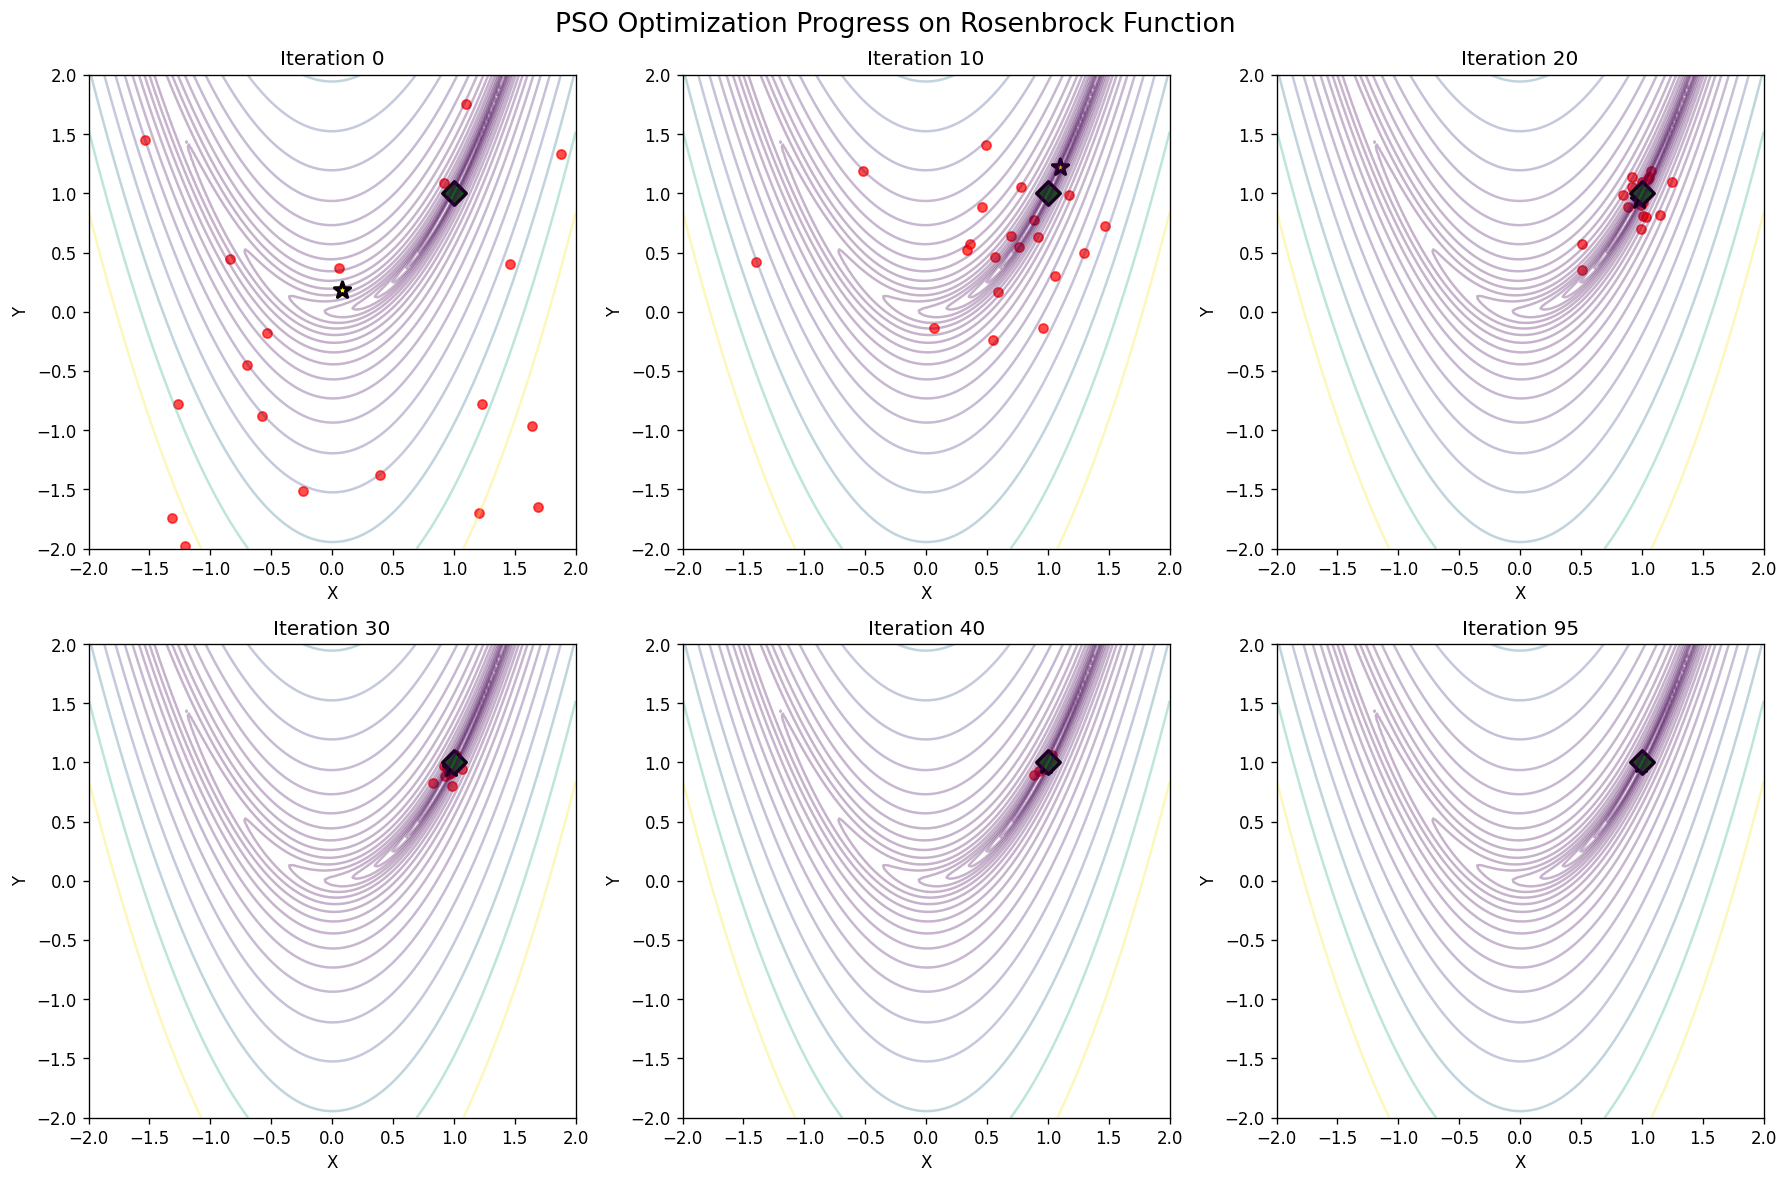
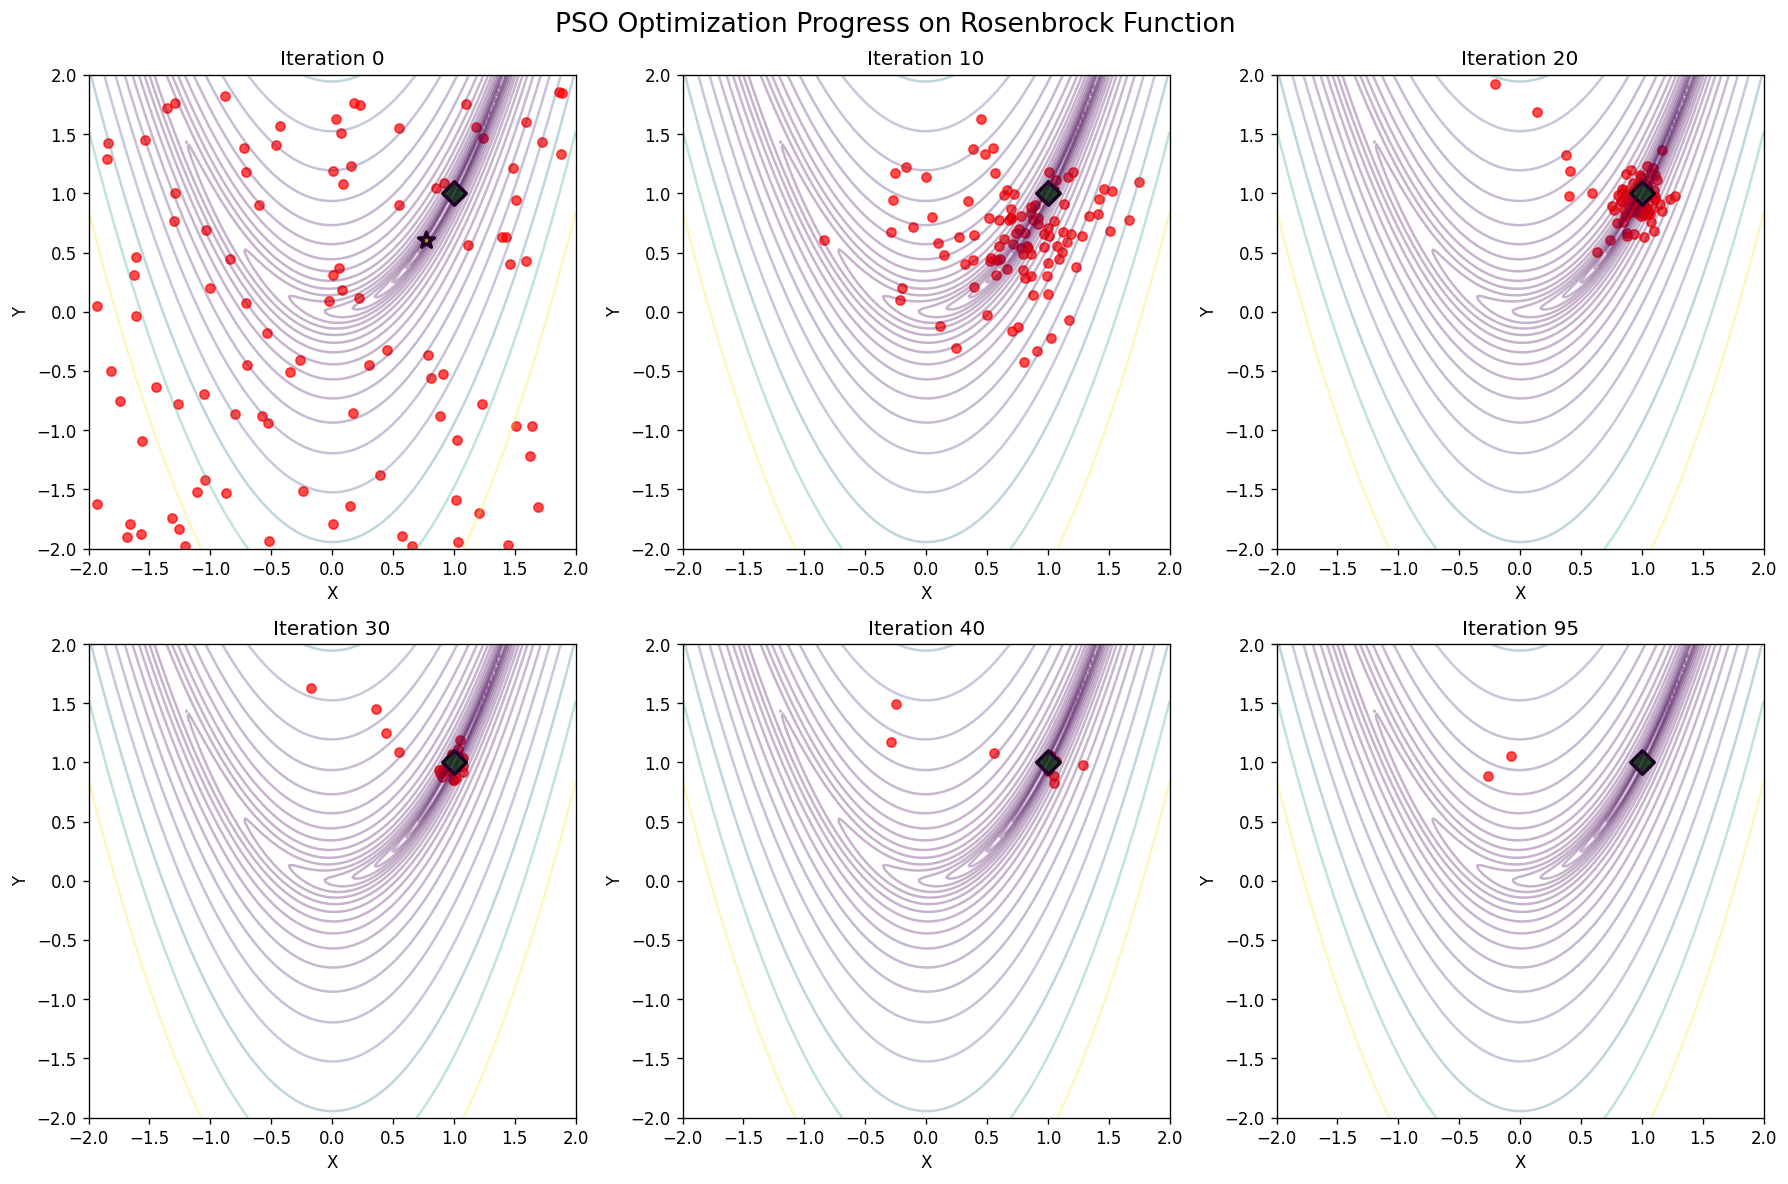
tested

diff --git a/test.py b/test.py
@@ -12,7 +12,11 @@ import importlib
 import importlib.util
 import numpy as np
 import matplotlib.pyplot as plt
-
+from pathlib import Path
+import re
+import argparse
+import itertools
+from datetime import datetime
 
 # ---------------------- dynamic import ----------------------
 def load_user_impl(arg):
@@ -42,6 +46,36 @@ def maybe(obj, method_name, *args, **kwargs):
     meth = getattr(obj, method_name)
     out = meth(*args, **kwargs)
     return obj if out is None else out
+
+# ---------------------- saving helpers ----------------------
+def _ensure_pictures_dir():
+    Path("pictures").mkdir(parents=True, exist_ok=True)
+
+def _next_test_index():
+    _ensure_pictures_dir()
+    maxn = 0
+    for p in Path("pictures").glob("test_*.png"):
+        m = re.match(r"test_(\d+)", p.stem)
+        if m:
+            maxn = max(maxn, int(m.group(1)))
+    return maxn + 1
+
+def _savefig_auto(fig, meta=None, prefix="test"):
+    """
+    Save `fig` into ./pictures as test_N[__k=v_...] .png
+    meta: dict of values you want embedded in the filename (numbers you used)
+    """
+    idx = _next_test_index()
+    suffix = ""
+    if meta:
+        # turn {k:v} into "__k=v_k2=v2"
+        parts = [f"{k}={v}" for k, v in meta.items()]
+        if parts:
+            suffix = "__" + "_".join(parts)
+    fname = f"{prefix}_{idx}{suffix}.png"
+    out = Path("pictures") / fname
+    fig.savefig(out, dpi=120, bbox_inches="tight")
+    print(f"✓ Saved: {out}")
 
 
 # ---------------------- tests ----------------------
@@ -226,7 +260,15 @@ class FitnessHistory:
         return f
 
 
-def visualize_rosenbrock(ParticleSwarmOptimizer):
+def visualize_rosenbrock(ParticleSwarmOptimizer,
+                         pop_size=30,
+                         n_neighbors=5,
+                         n_iters=100,
+                         lower=None,
+                         upper=None,
+                         snapshot_every=5,
+                         tag=None,
+                         seed=None):
     print("\n[VISUALIZATION] Rosenbrock 2D (no PSO override)\n" + "-" * 40)
 
     # Rosenbrock; return negative to maximize
@@ -234,26 +276,31 @@ def visualize_rosenbrock(ParticleSwarmOptimizer):
         x, y = p.candidate[0], p.candidate[1]
         return -((1 - x) ** 2 + 100 * (y - x ** 2) ** 2)
 
-    pop_size = 20
-    recorder = FitnessHistory(rosen, pop_size=pop_size, snapshot_every=5)
+    lower = np.array([-2.0, -2.0]) if lower is None else np.asarray(lower, dtype=float)
+    upper = np.array([ 2.0,  2.0]) if upper is None else np.asarray(upper, dtype=float)
+
+    if seed is not None:
+        np.random.seed(int(seed))
+
+    recorder = FitnessHistory(rosen, pop_size=int(pop_size), snapshot_every=int(snapshot_every))
 
     opt = ParticleSwarmOptimizer(
         fitness_func=recorder,   # <-- ONLY wrapping, not changing PSO
-        pop_size=pop_size,
-        n_neighbors=5,
+        pop_size=int(pop_size),
+        n_neighbors=int(n_neighbors),
         size=2,
-        lower=np.array([-2.0, -2.0]),
-        upper=np.array([2.0, 2.0]),
+        lower=lower,
+        upper=upper,
     )
-    opt.fit(n_iters=100)
+    opt.fit(n_iters=int(n_iters))
 
     # Plot snapshots
     fig, axes = plt.subplots(2, 3, figsize=(15, 10))
     fig.suptitle("PSO Optimization Progress on Rosenbrock Function", fontsize=16)
     snaps = [0, 2, 4, 6, 8, -1]
 
-    X = np.linspace(-2, 2, 200)
-    Y = np.linspace(-2, 2, 200)
+    X = np.linspace(lower[0], upper[0], 200)
+    Y = np.linspace(lower[1], upper[1], 200)
     XX, YY = np.meshgrid(X, Y)
     ZZ = (1 - XX) ** 2 + 100 * (YY - XX ** 2) ** 2
 
@@ -263,37 +310,81 @@ def visualize_rosenbrock(ParticleSwarmOptimizer):
             data = recorder.history[h]
             P = data["positions"]
             ax.contour(XX, YY, ZZ, levels=np.logspace(-1, 3, 20), alpha=0.3)
-            ax.scatter(P[:, 0], P[:, 1], c="red", s=30, alpha=0.7)
+            ax.scatter(P[:, 0], P[:, 1], s=30, alpha=0.7)
             if data["global_best"] is not None:
                 ax.scatter(data["global_best"][0], data["global_best"][1],
-                           c="yellow", s=100, marker="*", edgecolors="black", linewidth=2)
-            ax.scatter(1, 1, c="green", s=100, marker="D", edgecolors="black", linewidth=2)
+                           s=100, marker="*", edgecolors="black", linewidth=2)
+            ax.scatter(1, 1, s=100, marker="D", edgecolors="black", linewidth=2)
             ax.set_title(f"Iteration {data['iteration']}")
-            ax.set_xlim(-2, 2); ax.set_ylim(-2, 2)
+            ax.set_xlim(lower[0], upper[0]); ax.set_ylim(lower[1], upper[1])
             ax.set_xlabel("X"); ax.set_ylabel("Y")
 
     plt.tight_layout()
-    plt.savefig("pso_optimization_progress.png", dpi=120, bbox_inches="tight")
-    print("✓ Saved: pso_optimization_progress.png")
+
+    # Save with meta
+    meta = {
+        "pop": int(pop_size),
+        "nei": int(n_neighbors),
+        "iters": int(n_iters),
+        "low": f"[{lower[0]:.1f},{lower[1]:.1f}]",
+        "up":  f"[{upper[0]:.1f},{upper[1]:.1f}]",
+        "snap": int(snapshot_every),
+    }
+    if seed is not None:
+        meta["seed"] = int(seed)
+    if tag:
+        meta["tag"] = str(tag)
+
+    _savefig_auto(fig, meta=meta, prefix="test")
     print(f"Final best (from optimizer): {opt.global_best.candidate}")
     print(f"Error vs [1,1]: {np.linalg.norm(opt.global_best.candidate - np.array([1.0, 1.0])):.4f}")
-    plt.show()
+    plt.close(fig)
     return True
 
-
 # ---------------------- main ----------------------
+
+
+def _parse_list(s, cast=float):
+    # accepts "a,b,c" -> [cast(a), cast(b), cast(c)]
+    if s is None: return None
+    return [cast(x.strip()) for x in s.split(",") if x.strip()]
+
 def main():
     if len(sys.argv) < 2:
-        print("Usage: python pso_test.py <module_name | path/to/file.py>")
+        print("Usage: python pso_test.py <module_name | path/to/file.py> [options]")
+        print("Examples:")
+        print("  python pso_test.py my_impl.py --pop 30,50 --nei 5,10 --iters 100,200 --tag baseline")
         sys.exit(1)
 
-    ParticleCandidate, ParticleSwarmOptimizer, module = load_user_impl(sys.argv[1])
+    # First argument is module path/name; the rest are options
+    module_arg = sys.argv[1]
+    arglist = sys.argv[2:]
+
+    ParticleCandidate, ParticleSwarmOptimizer, module = load_user_impl(module_arg)
     print("=" * 60)
     print(f"Testing PSO implementation from: {module.__name__}")
     print("=" * 60)
 
+    parser = argparse.ArgumentParser(add_help=False)
+    parser.add_argument("--pop", type=str, default=None, help="Comma-separated pop sizes")
+    parser.add_argument("--nei", type=str, default=None, help="Comma-separated neighbor counts")
+    parser.add_argument("--iters", type=str, default=None, help="Comma-separated iteration counts")
+    parser.add_argument("--lower", type=str, default=None, help='Comma-separated lower bounds, e.g. "-2,-2"')
+    parser.add_argument("--upper", type=str, default=None, help='Comma-separated upper bounds, e.g. "2,2"')
+    parser.add_argument("--snap", type=str, default=None, help="Comma-separated snapshot_every values")
+    parser.add_argument("--seed", type=str, default=None, help="Comma-separated seeds")
+    parser.add_argument("--tag", type=str, default=None, help="Free text to tag the run(s)")
+    parser.add_argument("--helpme", action="store_true", help="Show options")
+    # parse only arglist so the module path is untouched
+    opts, _ = parser.parse_known_args(arglist)
+
+    if opts.helpme:
+        parser.print_help()
+        sys.exit(0)
+
     np.random.seed(0)  # reproducible tests (doesn't alter your logic)
 
+    # ---------------------- run tests (unchanged) ----------------------
     tests = [
         lambda: test_particle_initialization(ParticleCandidate),
         lambda: test_generate(ParticleCandidate),
@@ -301,14 +392,41 @@ def main():
         lambda: test_optimizer_on_sphere(ParticleCandidate, ParticleSwarmOptimizer),
         lambda: test_formula_direction(ParticleCandidate),
     ]
-
     passed = failed = 0
     for t in tests:
         ok = t()
         passed += int(ok)
         failed += int(not ok)
 
-    visualize_rosenbrock(ParticleSwarmOptimizer)
+    # ---------------------- build sweep lists ----------------------
+    pops  = _parse_list(opts.pop,  int) or [30]
+    neis  = _parse_list(opts.nei,  int) or [5]
+    iters = _parse_list(opts.iters, int) or [100]
+    snaps = _parse_list(opts.snap, int) or [5]
+    seeds = _parse_list(opts.seed, int) or [None]
+
+    lower = _parse_list(opts.lower, float)
+    upper = _parse_list(opts.upper, float)
+    if lower is not None and len(lower) != 2:
+        raise ValueError("--lower must have exactly 2 numbers, e.g. -2,-2")
+    if upper is not None and len(upper) != 2:
+        raise ValueError("--upper must have exactly 2 numbers, e.g. 2,2")
+
+    # ---------------------- sweep & save ----------------------
+    print("\n[SWEEP] Generating visualizations...")
+    for pop, nei, itn, snap, seed in itertools.product(pops, neis, iters, snaps, seeds):
+        print(f" -> pop={pop}, nei={nei}, iters={itn}, snap={snap}, seed={seed}, tag={opts.tag}")
+        visualize_rosenbrock(
+            ParticleSwarmOptimizer,
+            pop_size=pop,
+            n_neighbors=nei,
+            n_iters=itn,
+            lower=lower,
+            upper=upper,
+            snapshot_every=snap,
+            tag=opts.tag,
+            seed=seed,
+        )
 
     print("\n" + "=" * 60)
     print("TEST SUMMARY")
@@ -317,6 +435,18 @@ def main():
     print(f"Failed: {failed}/{len(tests)}")
     print("=" * 60)
 
-
 if __name__ == "__main__":
     main()
+
+
+
+"""
+ran this commands:
+python test.py particle_candidate.py
+
+	•	Try two pop sizes × two neighbor counts × two iters (8 images):
+python test.py particle_candidate.py --pop 30,50 --nei 5,10 --iters 100,200
+
+	•	Also vary snapshot stride & seeds:
+python test.py particle_candidate.py --pop 40 --snap 5,10 --seed 1,2,3
+"""

diff --git a/particle_candidate.py b/particle_candidate.py
@@ -232,7 +232,6 @@ class ParticleSwarmOptimizer(MetaHeuristicsAlgorithm):
         # We must deep copy particles to preserve their initial states
         # as personal bests, since particles will be modified in place
         self.best = [copy.deepcopy(particle) for particle in self.population]
-        
         self.fitness_best = np.full(self.pop_size, -np.inf) # Initialized with -np.inf: keeps dtype=float and allows direct numeric comparisons
         self.global_fitness_best = -np.inf
         self.global_best = None
@@ -263,19 +262,26 @@ class ParticleSwarmOptimizer(MetaHeuristicsAlgorithm):
             # (c) Find neighborhood bests
             best_neighbors = []
             for i in range(self.pop_size):
-                # Create list of all other particles (excluding self)
-                possible_neighbors = list(range(self.pop_size))
-                possible_neighbors.remove(i)
 
-                # Randomly select n_neighbors from other particles
-                # Using min() to handle edge case where n_neighbors > pop_size - 1
-                neighbor_indices = np.random.choice(possible_neighbors, 
-                                                min(self.n_neighbors, len(possible_neighbors)), 
-                                                replace=False)
-            
-                best_neighbor_idx = neighbor_indices[np.argmax([self.fitness_best[j] for j in neighbor_indices])]
-                best_neighbors.append(self.best[best_neighbor_idx])
-            
+                if self.n_neighbors == 0:
+                    # When no neighbors, use global best for neighborhood component
+                    # This maintains the three-component velocity update structure
+                    best_neighbors.append(self.global_best if self.global_best is not None 
+                                        else self.best[i])
+                else:
+                    # Create list of all other particles (excluding self)
+                    possible_neighbors = list(range(self.pop_size))
+                    possible_neighbors.remove(i)
+
+                    # Randomly select n_neighbors from other particles
+                    # Using min() to handle edge case where n_neighbors > pop_size - 1
+                    neighbor_indices = np.random.choice(possible_neighbors, 
+                                                    min(self.n_neighbors, len(possible_neighbors)), 
+                                                    replace=False)
+                
+                    best_neighbor_idx = neighbor_indices[np.argmax([self.fitness_best[j] for j in neighbor_indices])]
+                    best_neighbors.append(self.best[best_neighbor_idx])
+                    
             # (d) Update velocities and positions
             for i in range(self.pop_size):
                 # Update velocity based on personal, neighborhood, and global bests
